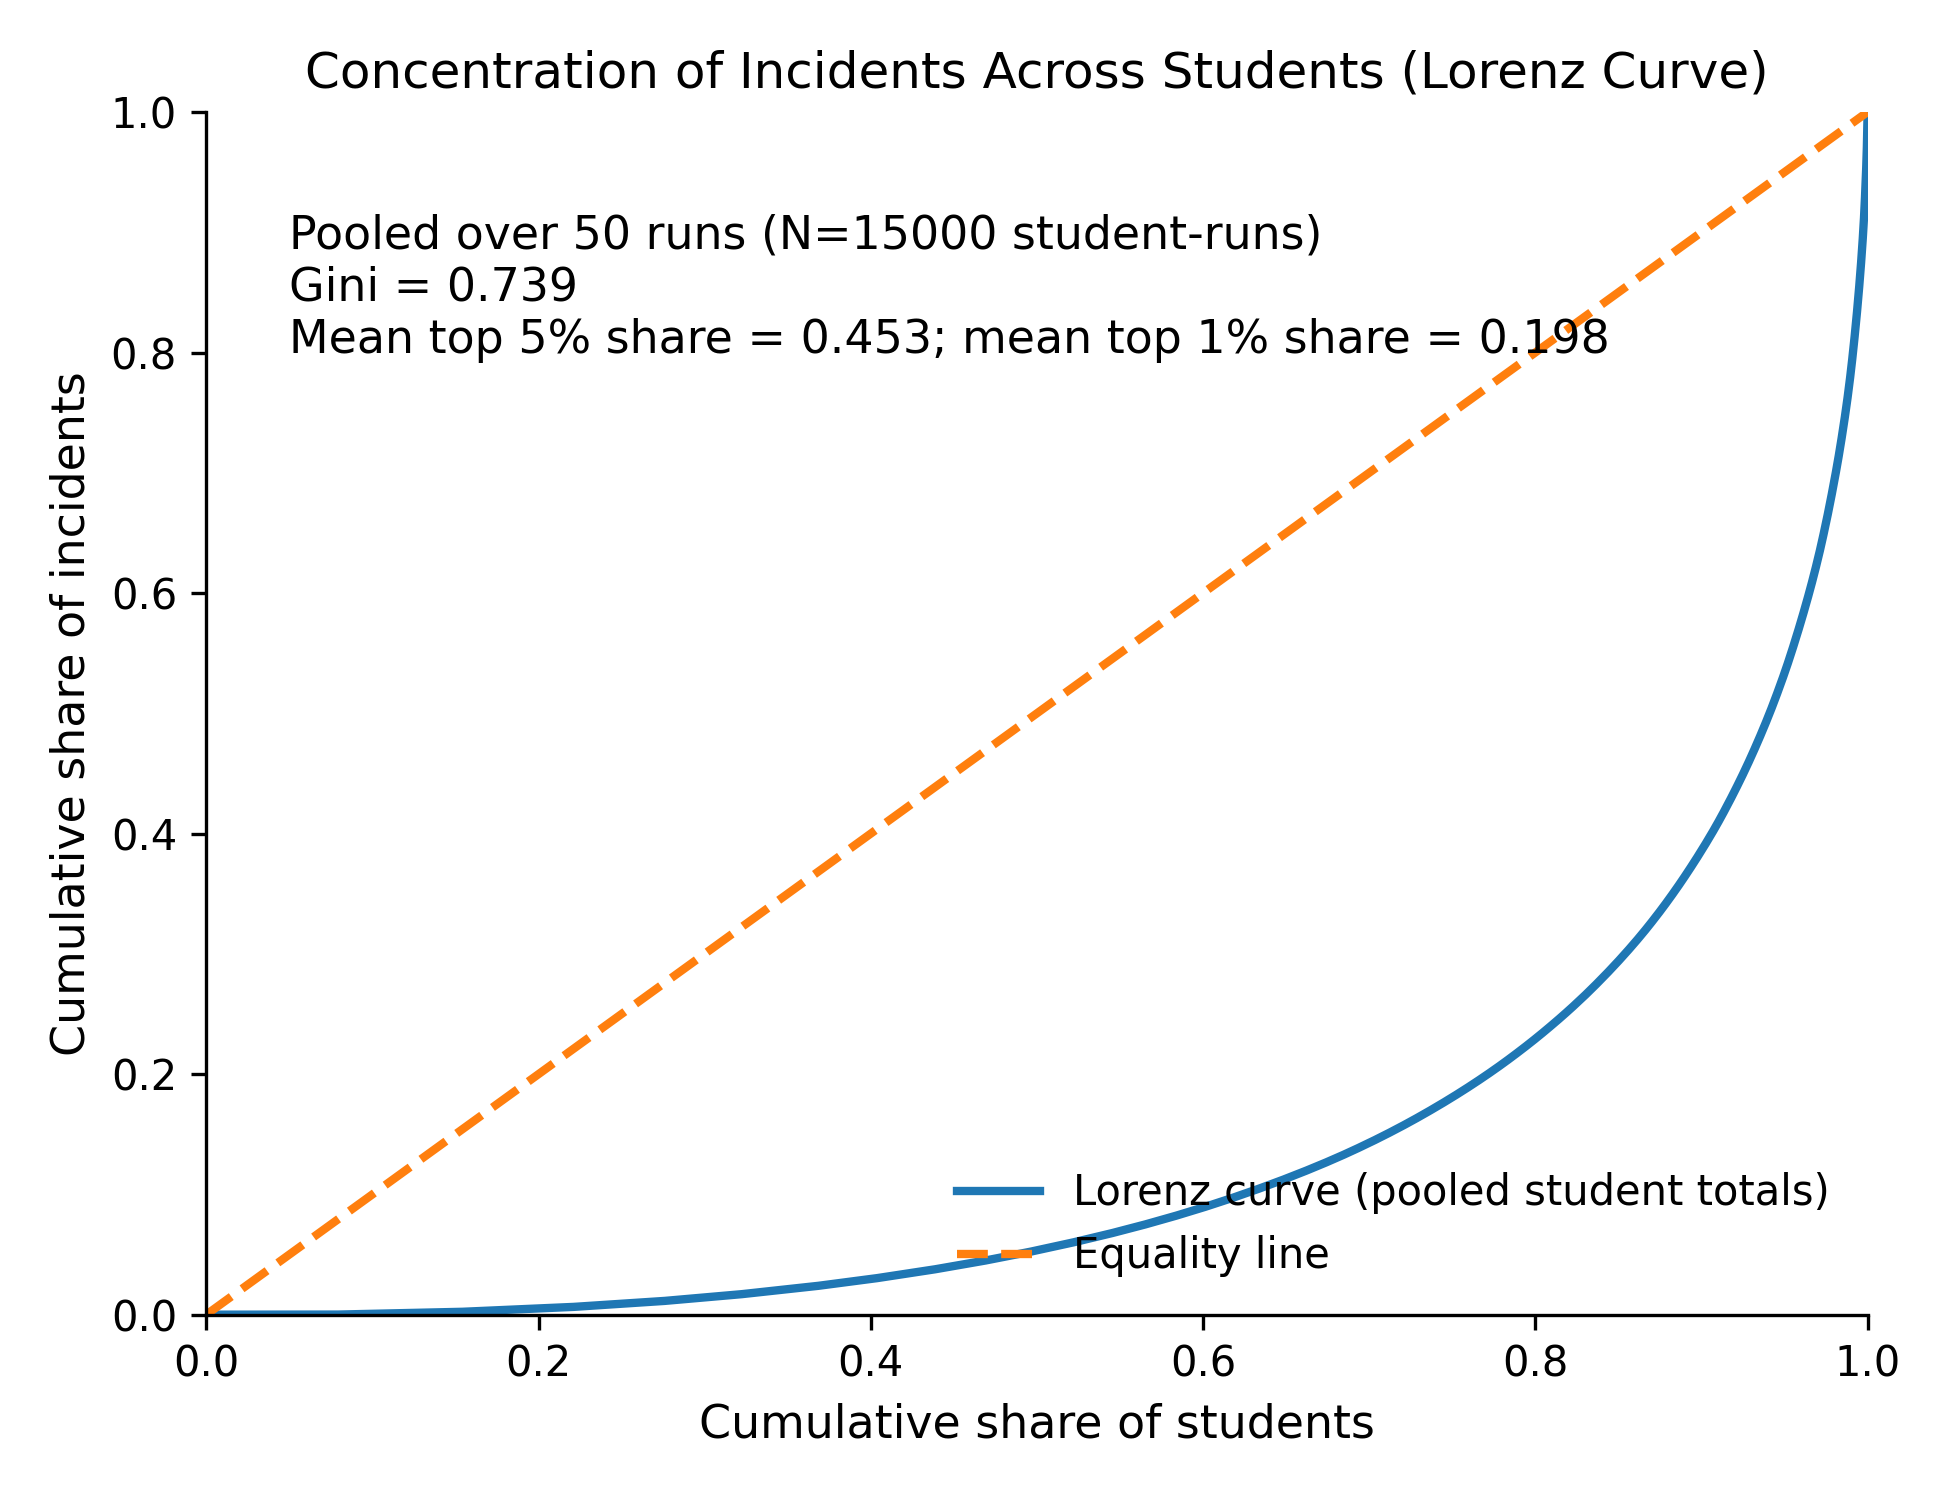
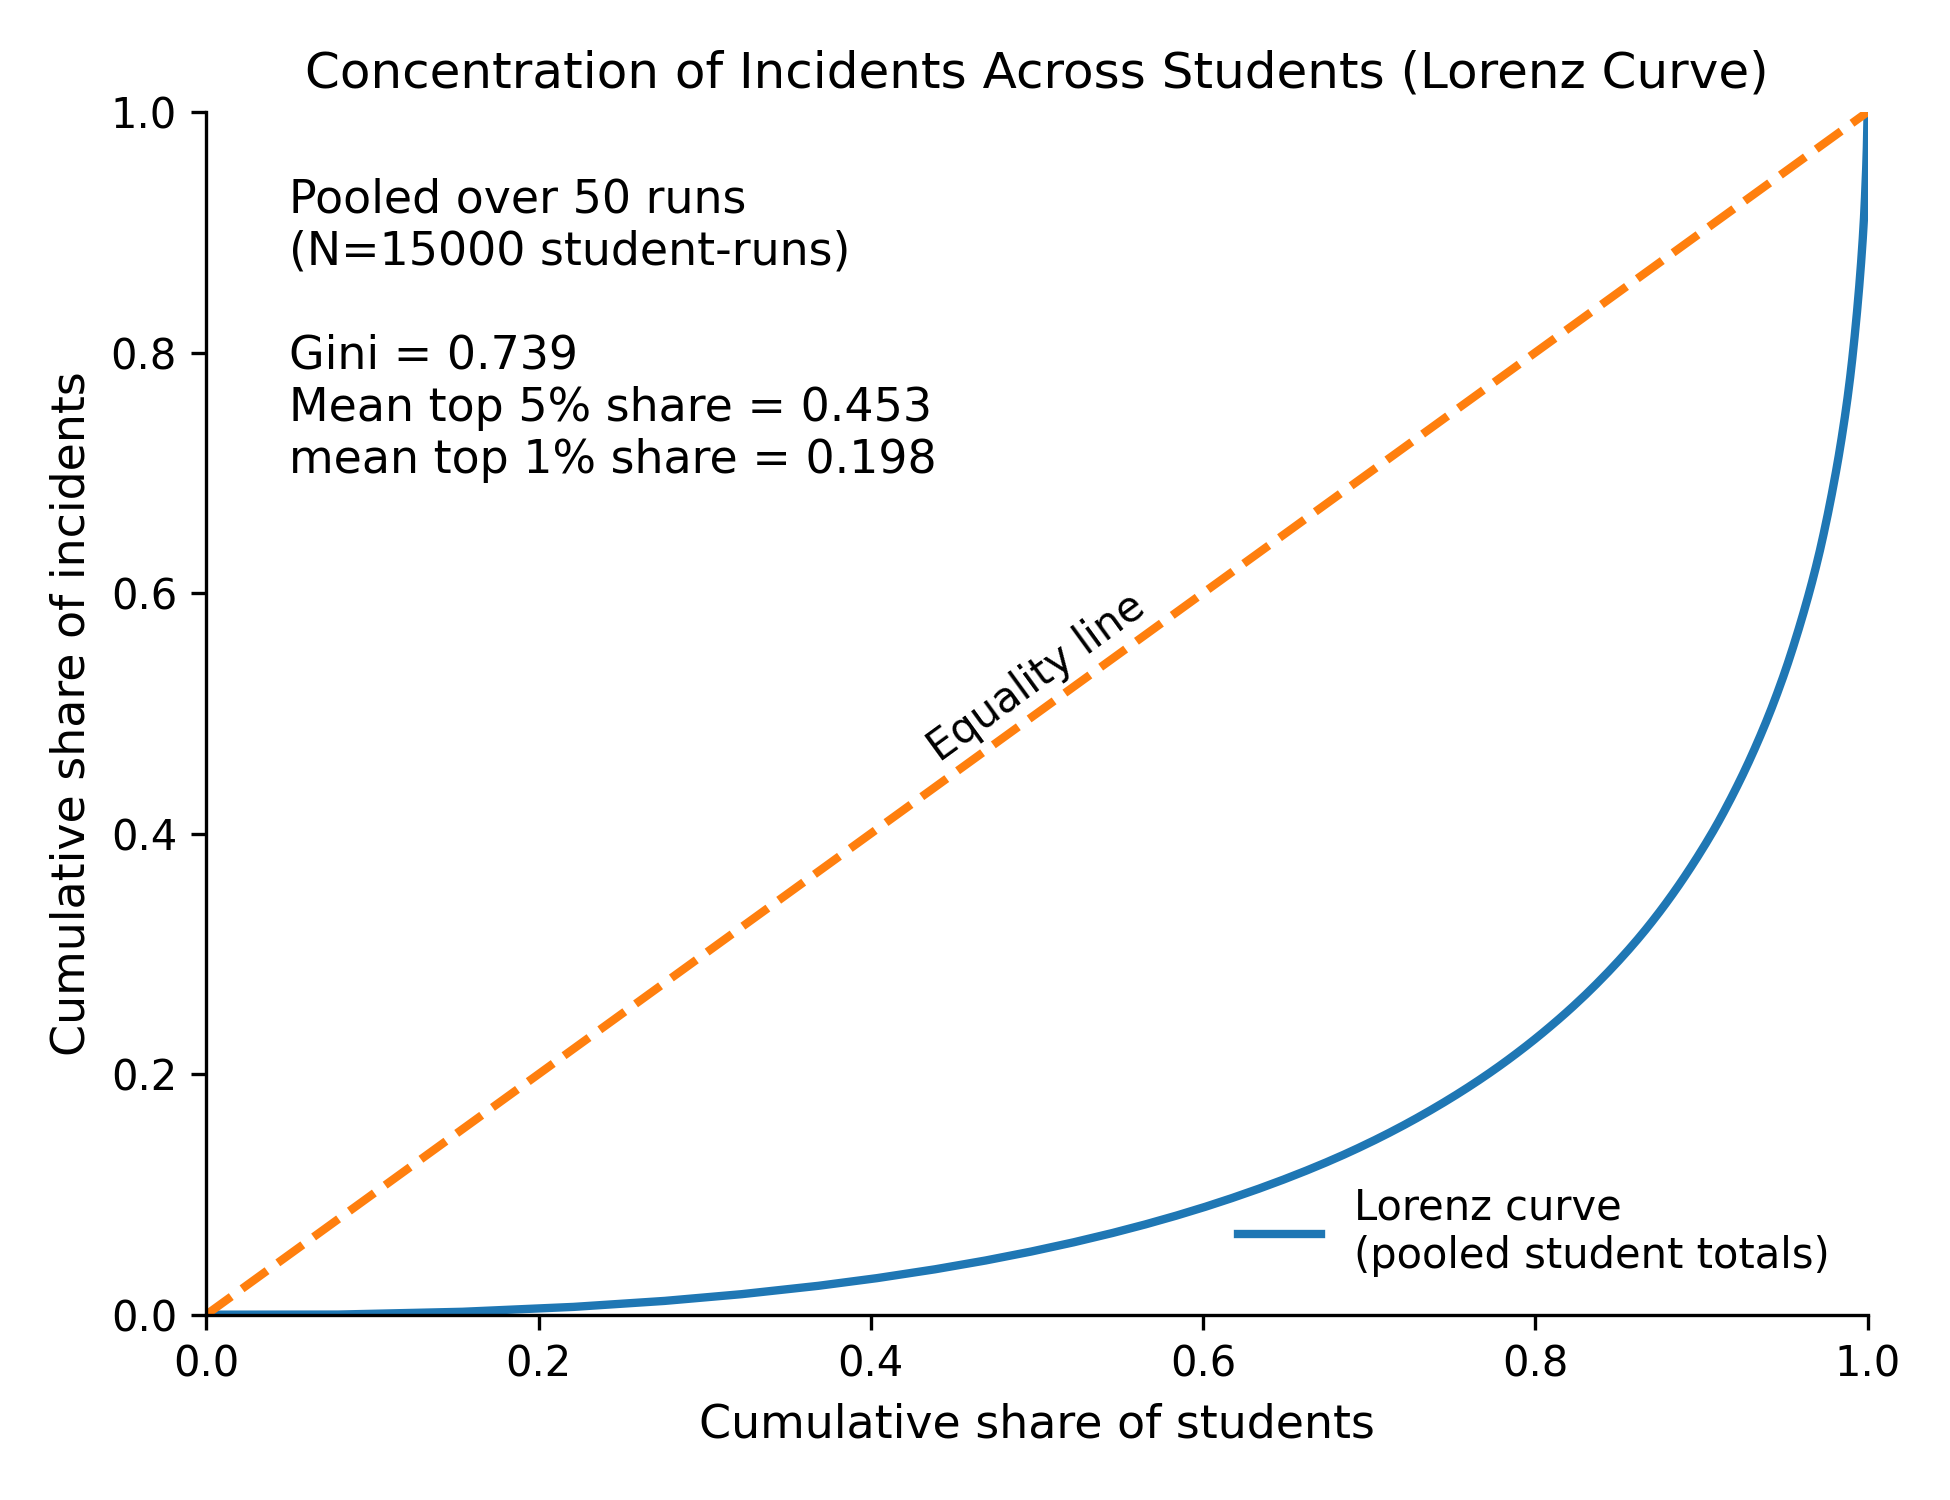
tweeked graphs and comments

diff --git a/analysis.py b/analysis.py
@@ -258,19 +258,29 @@ def plot_lorenz_from_model(
     fig = plt.figure(figsize=(6.5, 5.0))
     ax = plt.gca()
 
-    ax.plot(x, y, label="Lorenz curve (pooled student totals)")
-    ax.plot([0, 1], [0, 1], linestyle="--", label="Equality line")
+    ax.plot(x, y, label="Lorenz curve\n(pooled student totals)")
+    ax.plot([0, 1], [0, 1], linestyle="--", label="_nolegend_")
 
     ax.set_title("Concentration of Incidents Across Students (Lorenz Curve)")
     ax.set_xlabel("Cumulative share of students")
     ax.set_ylabel("Cumulative share of incidents")
 
     txt = (
-        f"Pooled over {len(seeds)} runs (N={len(pooled_totals)} student-runs)\n"
+        f"Pooled over {len(seeds)} runs\n(N={len(pooled_totals)} student-runs)\n\n"
         f"Gini = {gini:.3f}\n"
-        f"Mean top 5% share = {top5_mean:.3f}; mean top 1% share = {top1_mean:.3f}"
+        f"Mean top 5% share = {top5_mean:.3f}\nmean top 1% share = {top1_mean:.3f}"
     )
-    ax.text(0.05, 0.80, txt, transform=ax.transAxes)
+    ax.text(0.05, 0.7, txt, transform=ax.transAxes)
+    ax.text(
+        0.5, 0.53,
+        "Equality line",
+        transform=ax.transAxes,
+        rotation=36,
+        rotation_mode="anchor",
+        ha="center",
+        va="center",
+        fontsize=10,
+    )
 
     ax.spines["top"].set_visible(False)
     ax.spines["right"].set_visible(False)

diff --git a/model_core.py b/model_core.py
@@ -32,6 +32,9 @@ class Params:
     # 0.24 -> class_mean ~ 10, 0.36 -> class_mean ~ .15
     inc_base_rate: float = 0.02   # baseline expected incidents per student per day (before modifiers)
 
+    # nb_k is the shape parameter (k) that forces the model to follow a Negative Binomial 
+    # (nb) distribution, thereby producing the specific "burstiness" required to match 
+    # empirical classroom data.
     nb_k: float = 0.5           # dispersion; smaller => heavier tail, (originally 1)
                                 # .5 - moderate burstiness
                                 # .2 - strong burstiness
